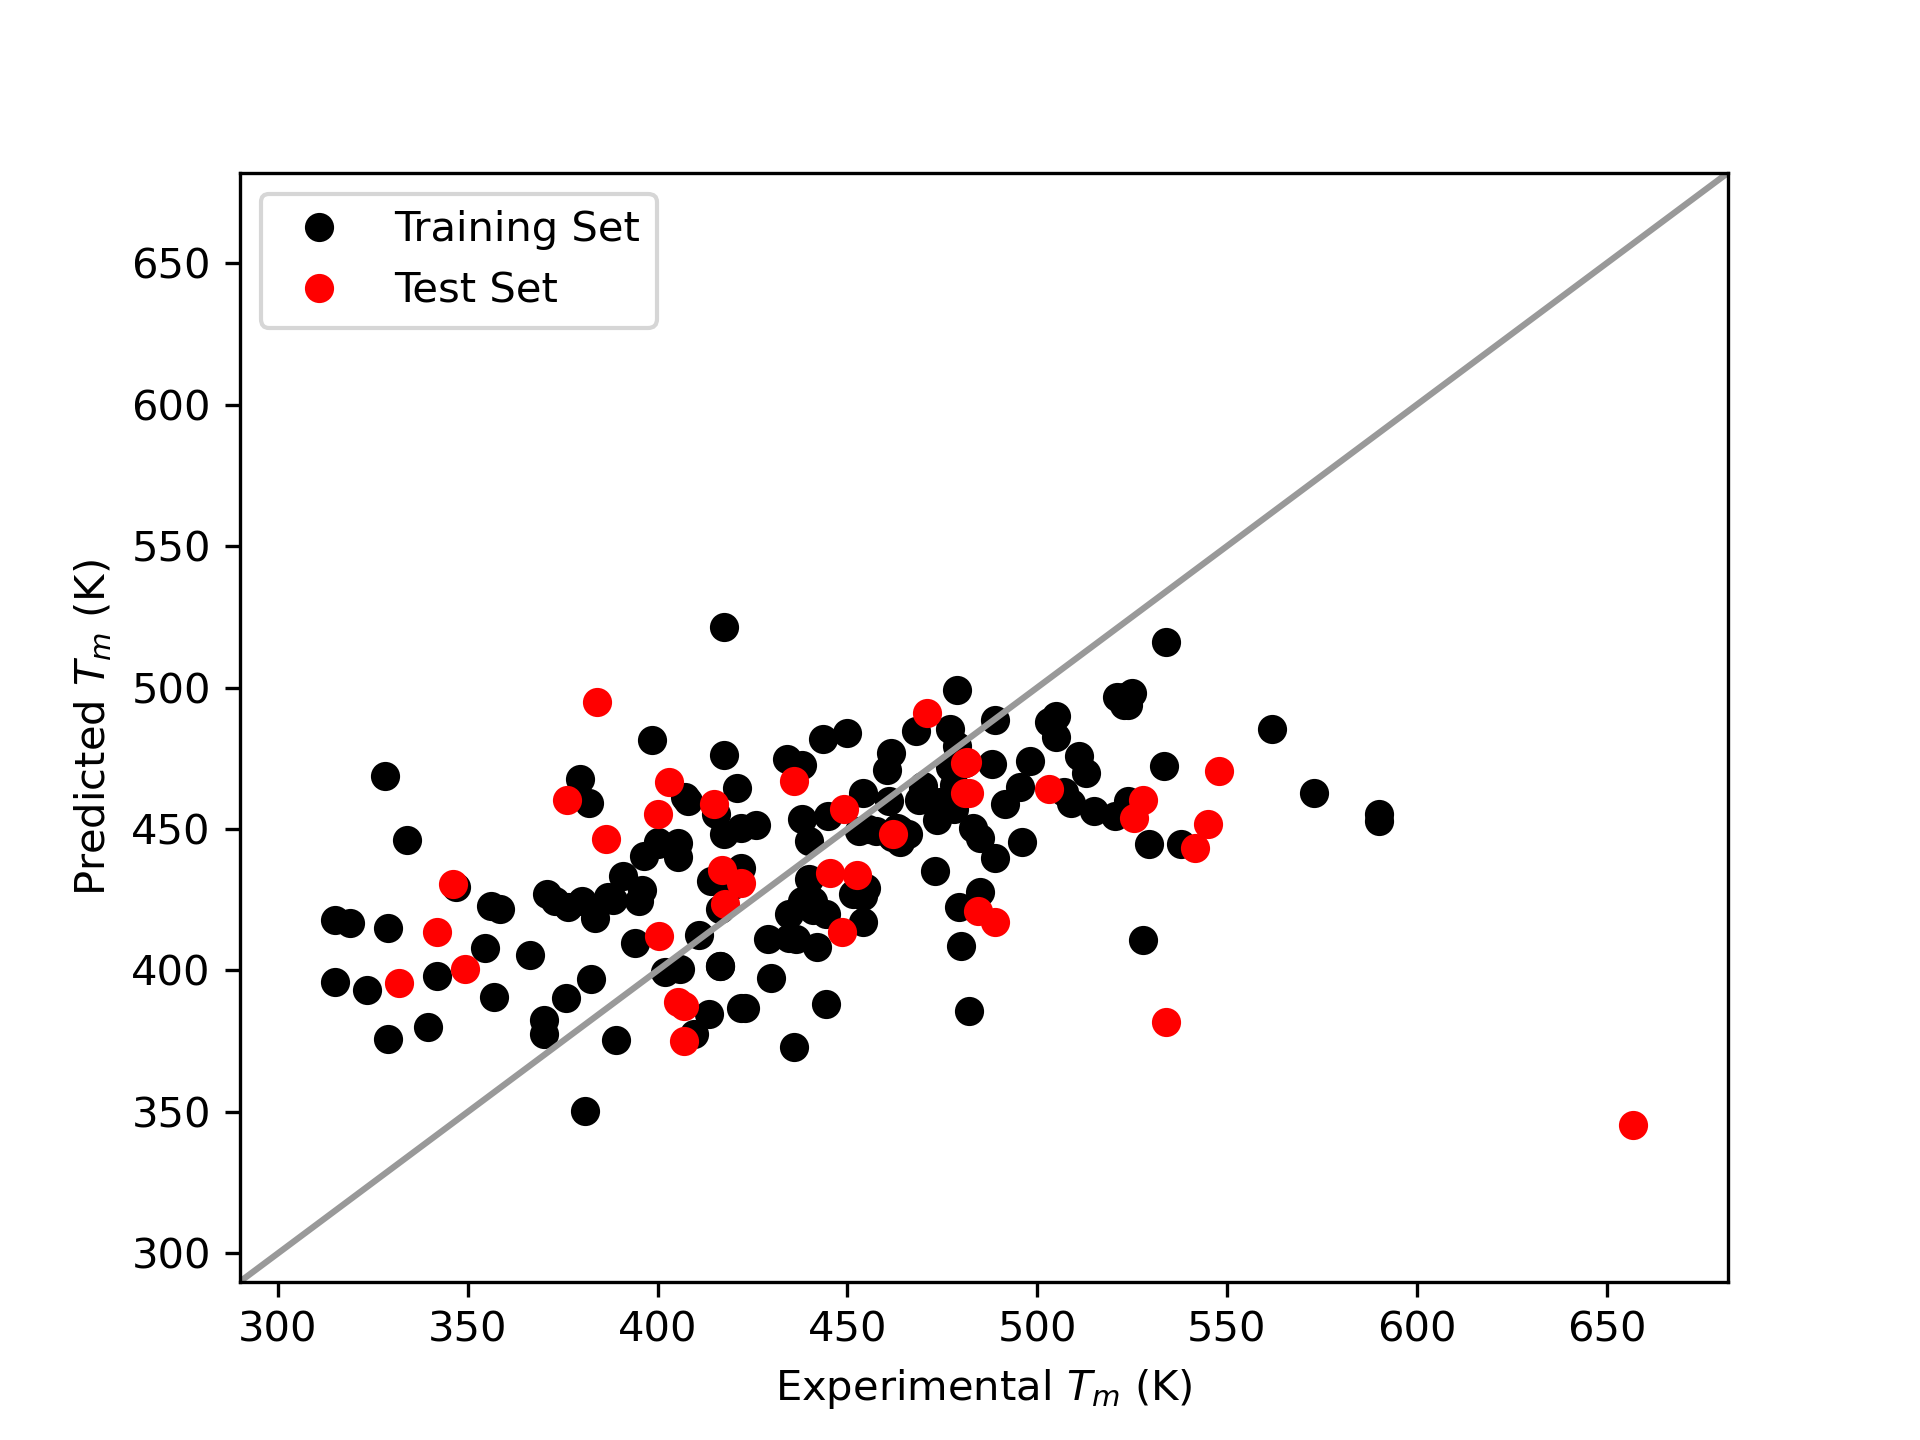
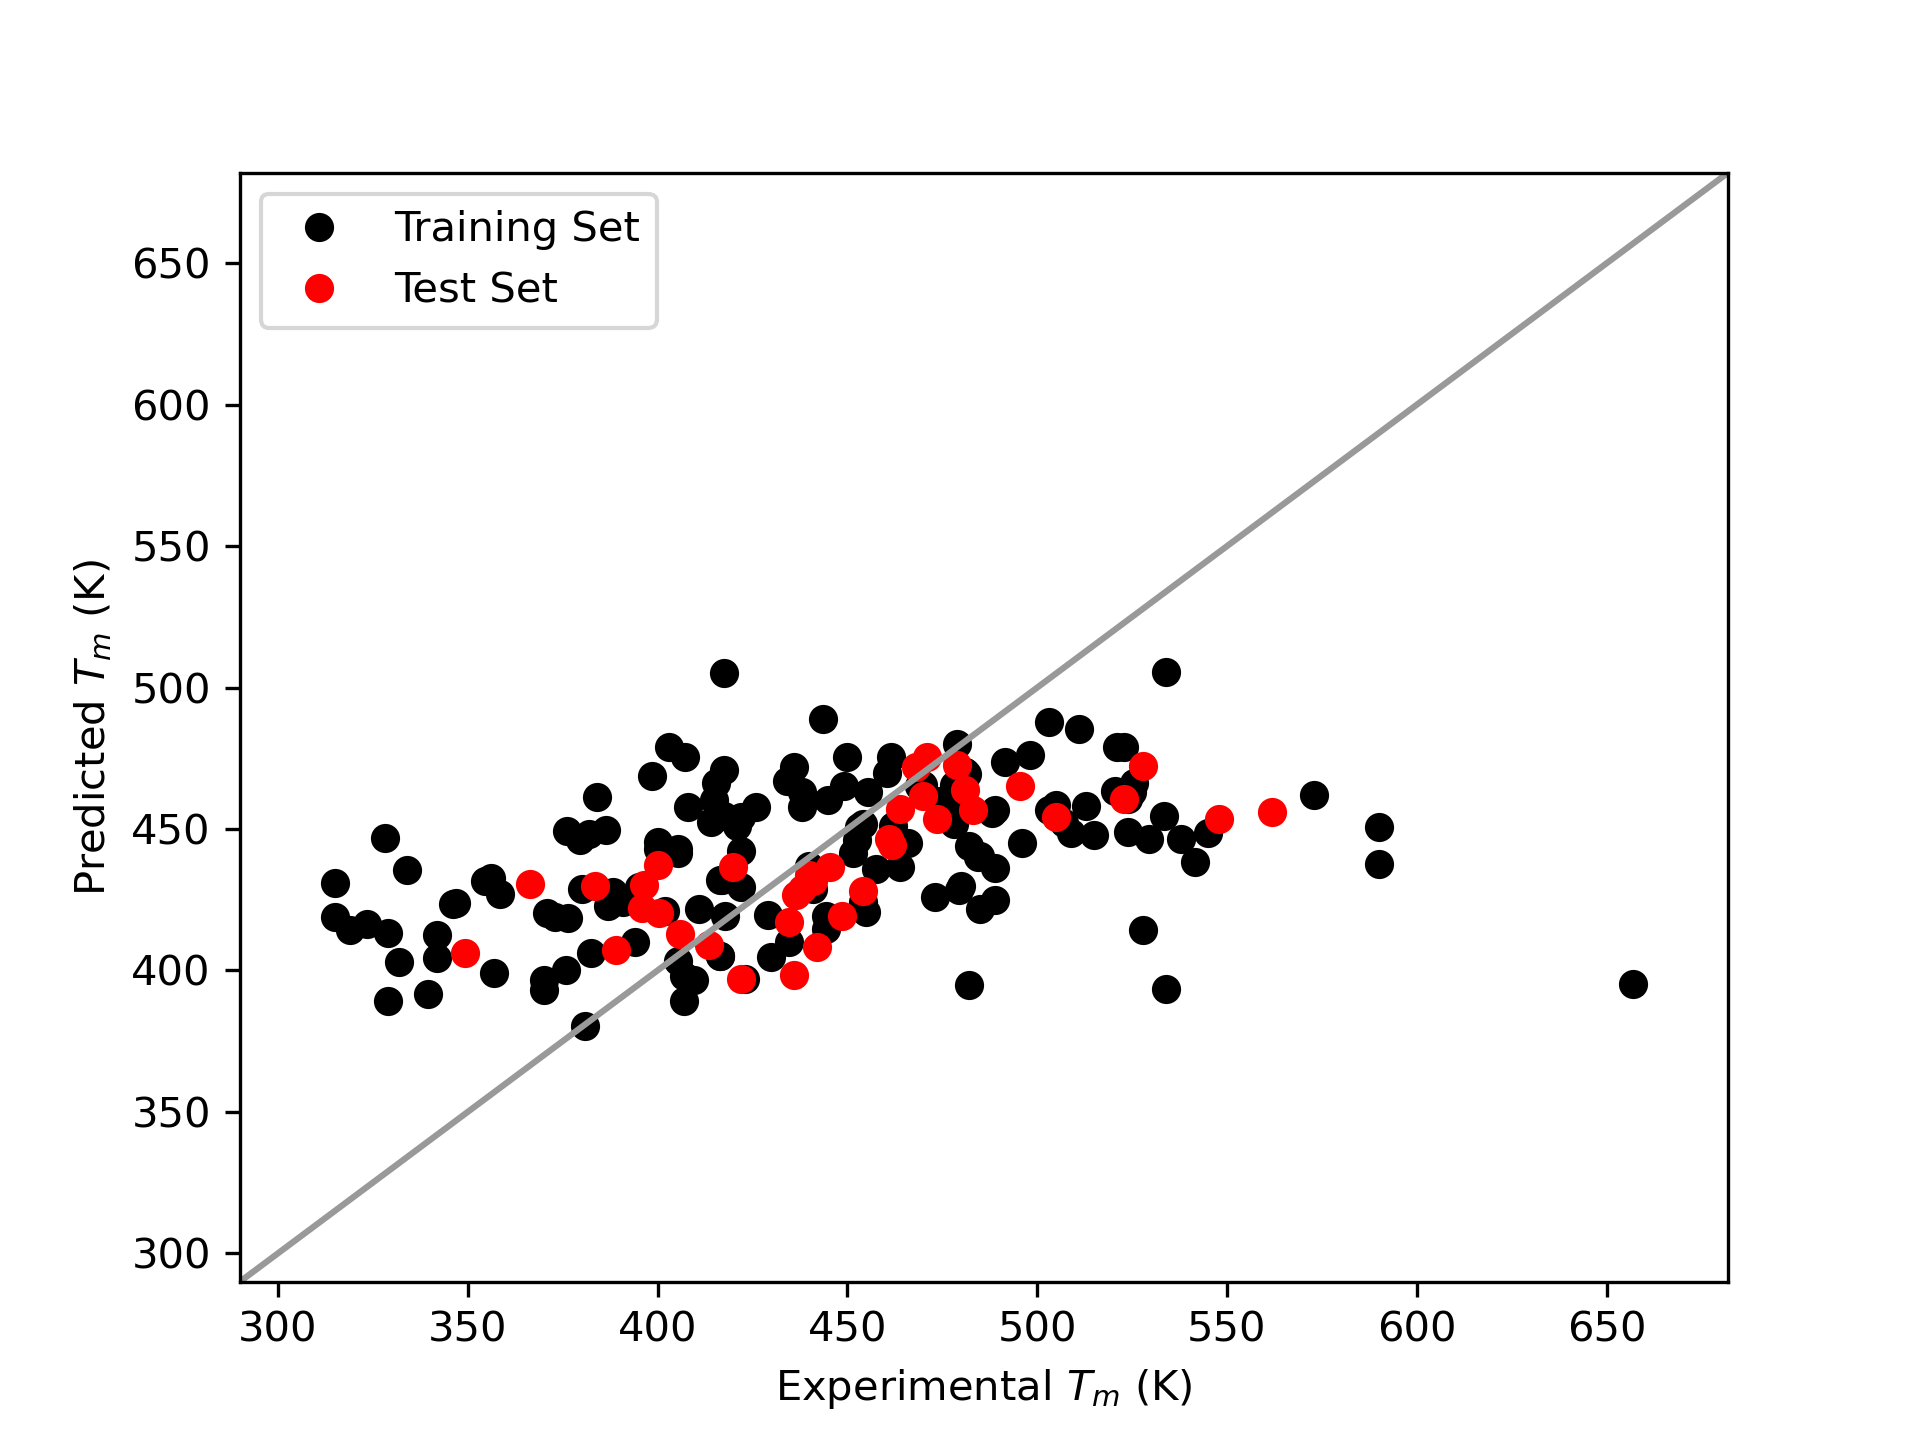
add slider for alpha in ML model

diff --git a/mp_prediction_paper.py b/mp_prediction_paper.py
@@ -420,17 +420,19 @@ r'''
 ### Machine Learning Model
 '''
 
-alpha=st.slider('alpha')
+
 
 # Quinone ML Plot
-ml_bq_dict=ml_model(ml_dataset_dict,'Quinones',alpha,False)
+alpha_bq=st.slider('Quinone Ridge Regression alpha',min_value=1,max_value=200,value=100)
+ml_bq_dict=ml_model(ml_dataset_dict,'Quinones',alpha_bq,False)
 
 ml_bq_dict['Plot'].savefig('ML_BQ_plot.png',dpi=300)
 st.write(ml_bq_dict['Plot'])
 st.markdown('''ML model for quinone dataset. Training set absolute average error is {:.2f} C and test set average absolute error is {:.2f} C. Training set RMSE is {:.2f} C and test set RMSE is {:.2f} C.'''.format(ml_bq_dict['Average Absolute Error'][1],ml_bq_dict['Average Absolute Error'][0],ml_bq_dict['RMSE Error'][1],ml_bq_dict['RMSE Error'][0]) )
 
 # Hydroquinone ML Plot
-ml_hq_dict=ml_model(ml_dataset_dict,'Hydroquinones',alpha,False)
+alpha_hq=st.slider('Hydroquinone Ridge Regression alpha',min_value=1,max_value=200,value=100)
+ml_hq_dict=ml_model(ml_dataset_dict,'Hydroquinones',alpha_hq,False)
 ml_hq_dict['Plot'].savefig('ML_HQ_plot.png',dpi=300)
 st.write(ml_hq_dict['Plot'])
 st.markdown('''ML model for hydroquinone dataset. Training set absolute average error is {:.2f} C and test set average absolute error is {:.2f} C. Training set RMSE is {:.2f} C and test set RMSE is {:.2f} C.'''.format(ml_hq_dict['Average Absolute Error'][1],ml_hq_dict['Average Absolute Error'][0],ml_hq_dict['RMSE Error'][1],ml_hq_dict['RMSE Error'][0]) )
